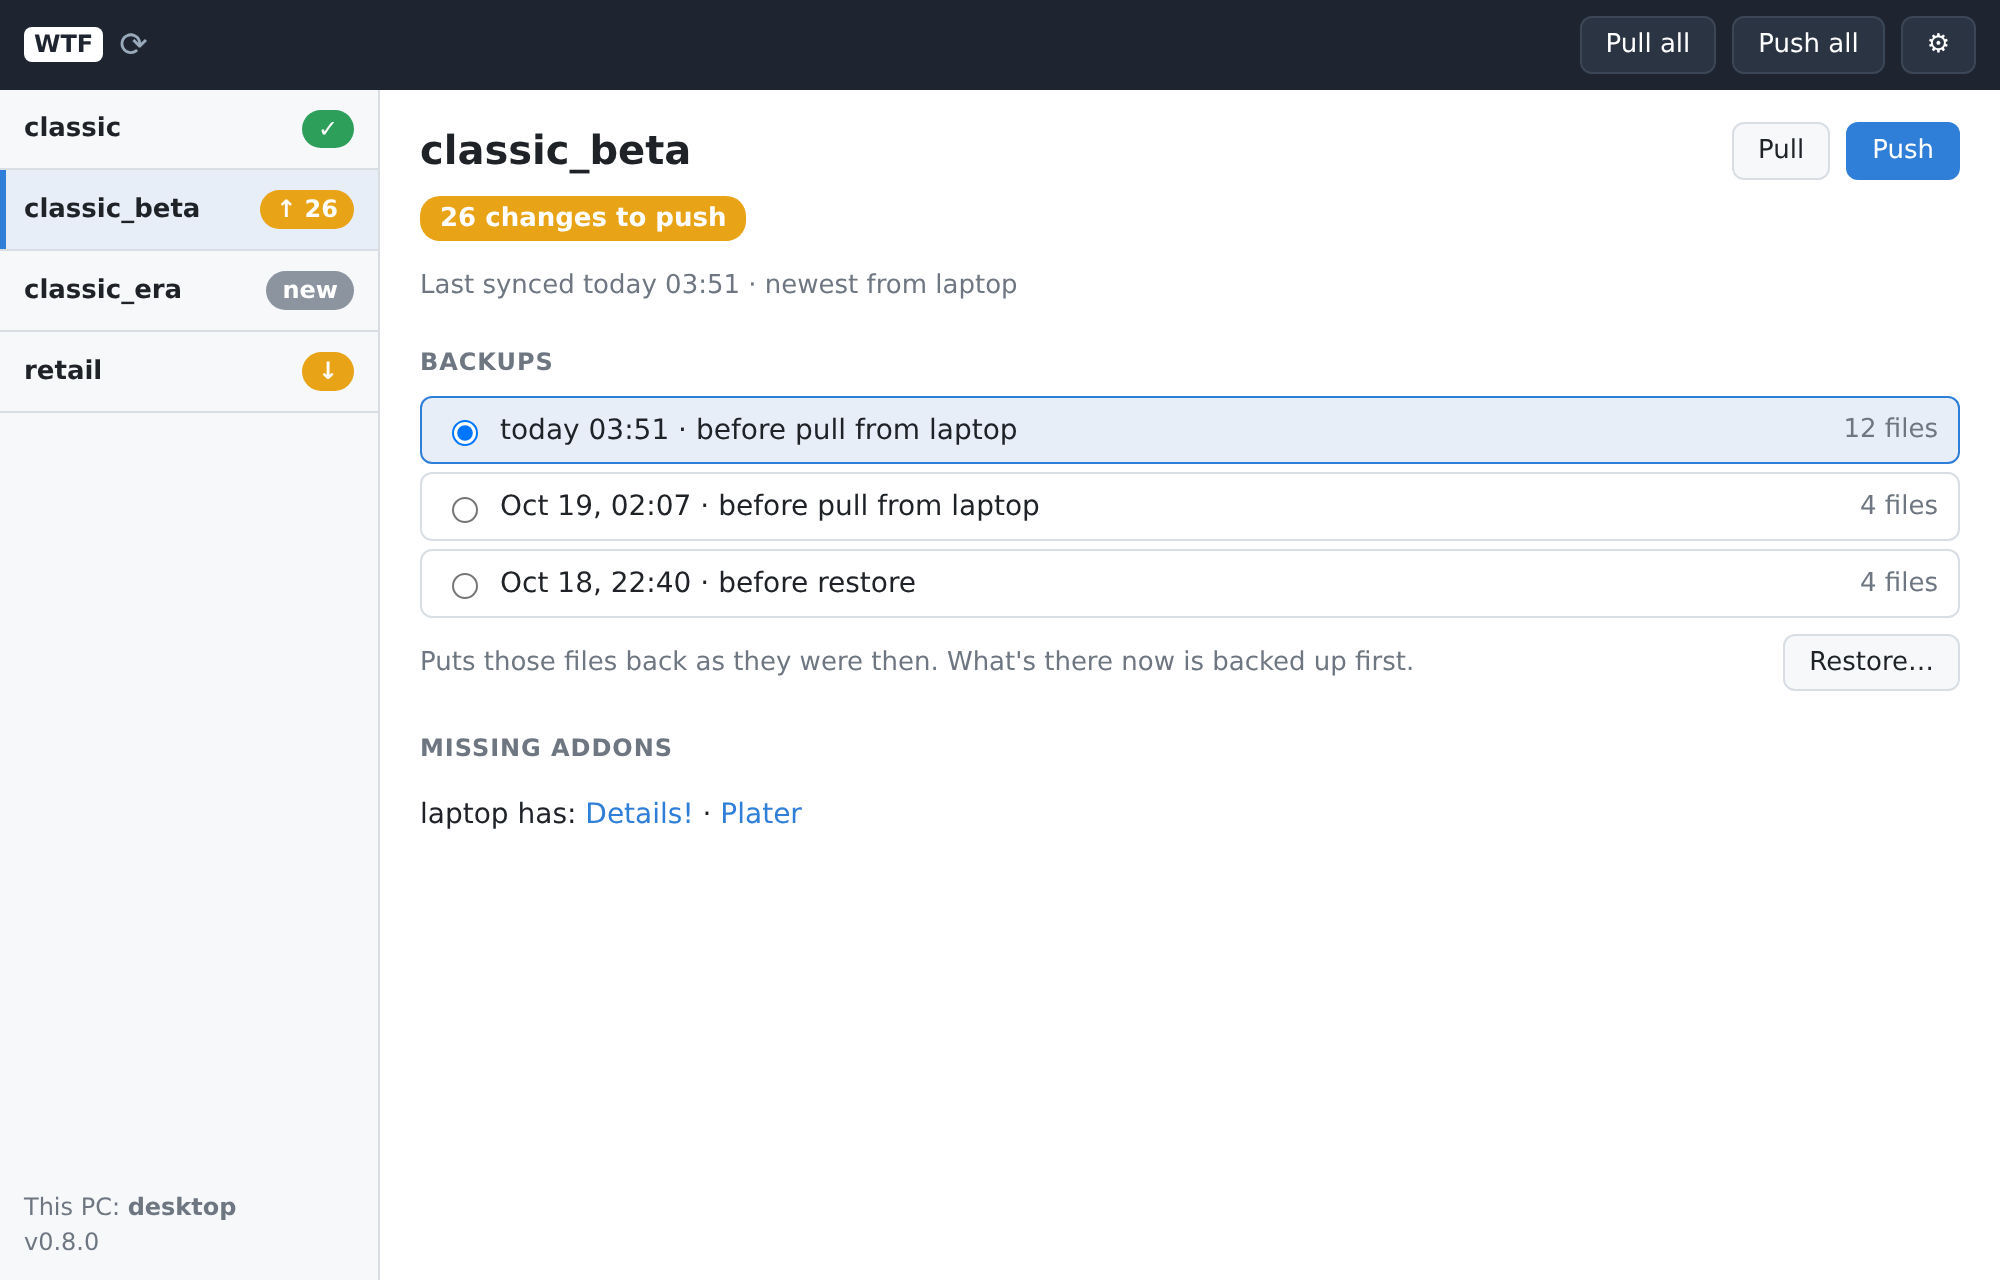
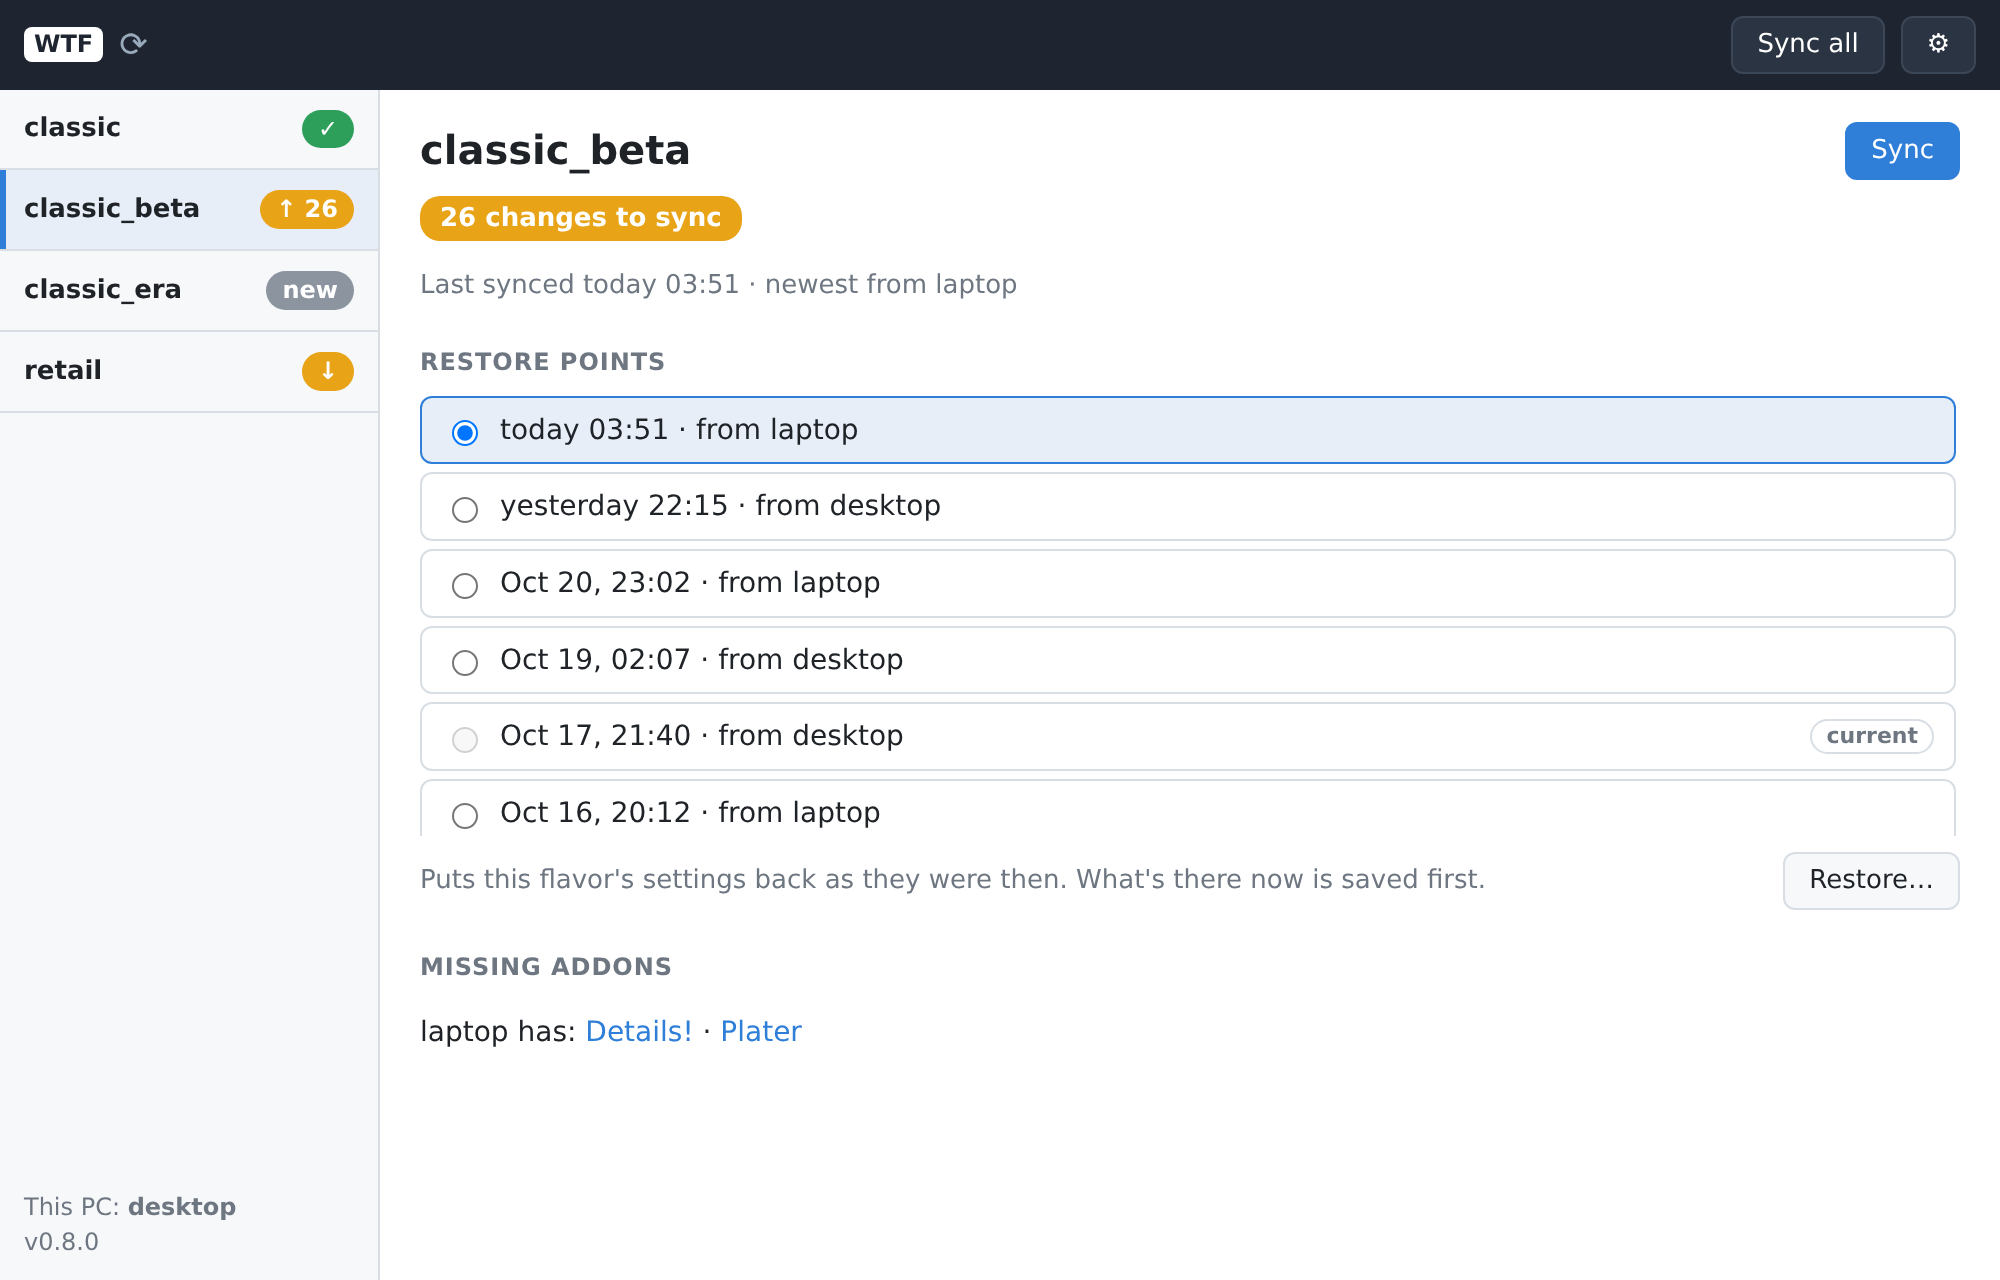
docs: describe Sync and restore points

diff --git a/README.md b/README.md
@@ -3,13 +3,13 @@
 Sync World of Warcraft addon settings (SavedVariables) between PCs through a folder your cloud
 client already syncs (Google Drive for Desktop, OneDrive, iCloud, Dropbox).
 
-![The wtfsync window: flavors on the left, the selected flavor's status, backups and missing addons on the right](docs/screenshots/main.png)
+![The wtfsync window: flavors on the left, the selected flavor's status, restore points and missing addons on the right](docs/screenshots/main.png)
 
 It syncs `WTF/Account/**/SavedVariables/*.lua` for every installed flavor (retail, classic, …).
 It never touches `Config.wtf` (graphics/hardware settings stay per-PC) or addon code.
 
-It doesn't install addons, but it tells you what you're missing. Each push records the PC's
-installed addons, and `pull`, `push` and `status` on the other PC list any it doesn't have, with
+It doesn't install addons, but it tells you what you're missing. Each sync records the PC's
+installed addons, and `sync`, `pull` and `status` on the other PC list any it doesn't have, with
 a download link when the addon's `.toc` names its CurseForge, Wago or WoWInterface project:
 
     laptop has addons not installed here:
@@ -36,12 +36,13 @@ makes the next sync ask once which settings to use, like a first link.
 
 Close WoW, then:
 
-    wtfsync push      # after playing
-    wtfsync pull      # before playing on the other PC
+    wtfsync sync      # after playing, and before playing on the other PC
     wtfsync status    # what's changed, and whether you're behind
 
-If the same addon's settings changed on both PCs, wtfsync asks which one to keep. Every pull backs
-up the files it overwrites; `wtfsync restore` puts the newest backup back.
+`sync` gets what your other PCs synced, then uploads this PC's changes. If the same addon's
+settings changed on both PCs, wtfsync asks which one to keep. Every file a sync overwrites is
+backed up first; `wtfsync restore` puts the newest backup back. To go back further, the tray
+window lists every recent sync as a restore point.
 
 Add `--dry-run` to any command to see what it would do without changing anything.
 
@@ -75,18 +76,21 @@ along its bottom shows the state:
 | Strip | Means |
 |---|---|
 | green ✓ | every flavor is in sync |
-| amber ↓ | another PC pushed newer settings (a notification offers **Pull**) |
-| red ! | needs you: an error, a refused sync (close WoW first), a push waiting for the cloud folder, or missing addons |
+| amber ↓ | another PC synced newer settings (a notification offers **Sync**) |
+| red ! | needs you: an error, a refused sync (close WoW first), a sync waiting for the cloud folder, or missing addons |
 | blue ⟳ | syncing |
 
-Click the icon to open the wtfsync window; right-click for the menu (Open wtfsync, Push, Pull,
+Click the icon to open the wtfsync window; right-click for the menu (Open wtfsync, Sync,
 Settings, Update, Open log folder, Quit). Closing the window keeps wtfsync running in the tray.
 
 In the window, pick a WoW flavor on the left to see everything about it: whether it's in sync and
-when it last synced, **Pull** and **Push** for just that flavor, its backups (pick one and
-**Restore…** — what's there now is backed up first, so a restore can be undone), and addons your
-other PCs have that this one doesn't, with download links. **Pull all** and **Push all** are in the
-top bar.
+when it last synced, **Sync** for just that flavor, its restore points, and addons your other PCs
+have that this one doesn't, with download links. **Sync all** is in the top bar.
+
+**Restore points** are the flavor's recent syncs from any of your PCs (the cloud folder keeps the
+last 20), newest first. The one your files match now is marked *current*. Pick another and
+**Restore…** to put the settings back as they were then; what's there now is saved first. Then
+**Sync** to send it to your other PCs, or restore the newest point to undo.
 
 **⚙ Settings** has this PC's name, the WoW and cloud folders, which flavors to sync (**All
 flavors**, or pick them), Appearance (System, Light or Dark), start with Windows, updates, and
@@ -137,6 +141,15 @@ PC's, or choose per file.
 
     wtfsync link
 
+### `wtfsync sync`
+
+Gets what your other PCs synced, then uploads this PC's changes: the same as the tray's **Sync**,
+and the same as `push`. Files changed only on another PC are taken, files changed only here are
+kept, and files changed on both ask which to keep.
+
+    wtfsync sync
+    wtfsync sync --flavor classic
+
 ### `wtfsync push`
 
 Uploads this PC's addon settings for every enabled flavor as a new snapshot. If another PC pushed
@@ -179,7 +192,7 @@ Prints the version.
 
 | Flag | Applies to | Meaning |
 |---|---|---|
-| `--flavor <name>` | push, pull, status, restore | only this flavor (`retail`, `classic`, …); default: every enabled flavor |
+| `--flavor <name>` | sync, push, pull, status, restore | only this flavor (`retail`, `classic`, …); default: every enabled flavor |
 | `--dry-run` | all but version | show what would change; change nothing |
 | `--wow-dir <path>` | all but version | WoW install folder (overrides settings) |
 | `--sync-dir <path>` | all but version | the cloud-synced folder (overrides settings) |
@@ -219,7 +232,7 @@ builds `dist/wtfsync.exe`, `dist/wtfsync-tray.exe`, `dist/wtfsync-setup.exe` and
 11. Update from one release to the next from the tray menu; the tray comes back on its own.
 12. Uninstall: programs, shortcut and startup entry gone; `%APPDATA%\wtfsync` still there.
 13. Tray left-click opens and focuses the window; closing it hides it; Quit from the menu really quits.
-14. Badges on both PCs match reality: ✓, ↑ N after editing a file, ↓ after the other PC pushes, `new` for a flavor never synced.
-15. Restore an older backup (not the newest), then restore the "before restore" backup to undo it.
+14. Badges on both PCs match reality: ✓, ↑ N after editing a file, ↓ after the other PC syncs, `new` for a flavor never synced.
+15. Restore points on the PC that synced last: its own syncs are listed, the newest marked current. Restore an older one: the page shows changes to sync and that point current; Sync, and the other PC's Sync gets it. Restore the newest to undo.
 16. Appearance Light / Dark / System, including Windows switching theme while the window is open.
 17. An update on offer: the toast shows when the window opens; **Later** hides it until the next version; **Update now** installs and the tray comes back.
